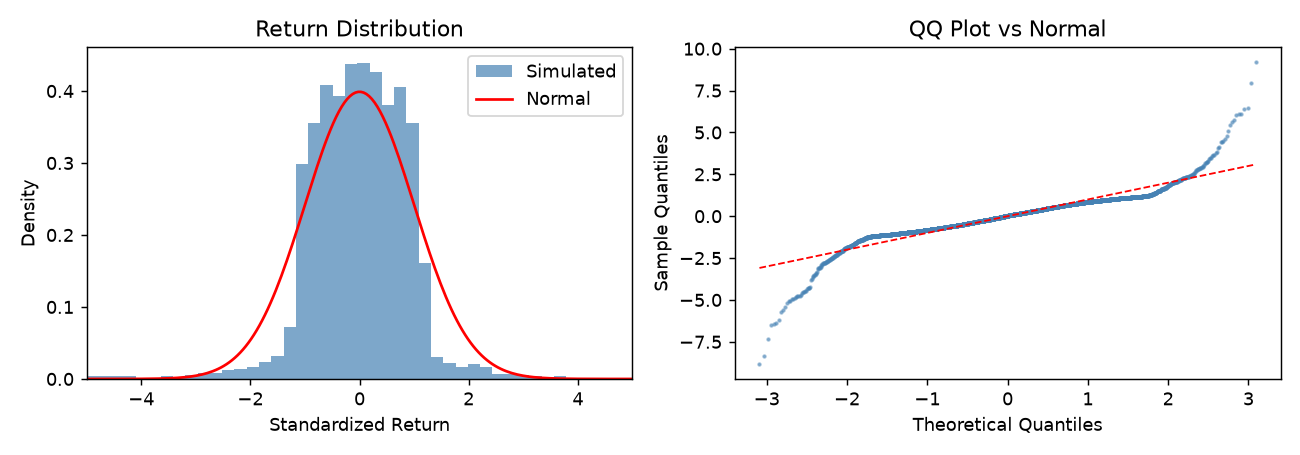
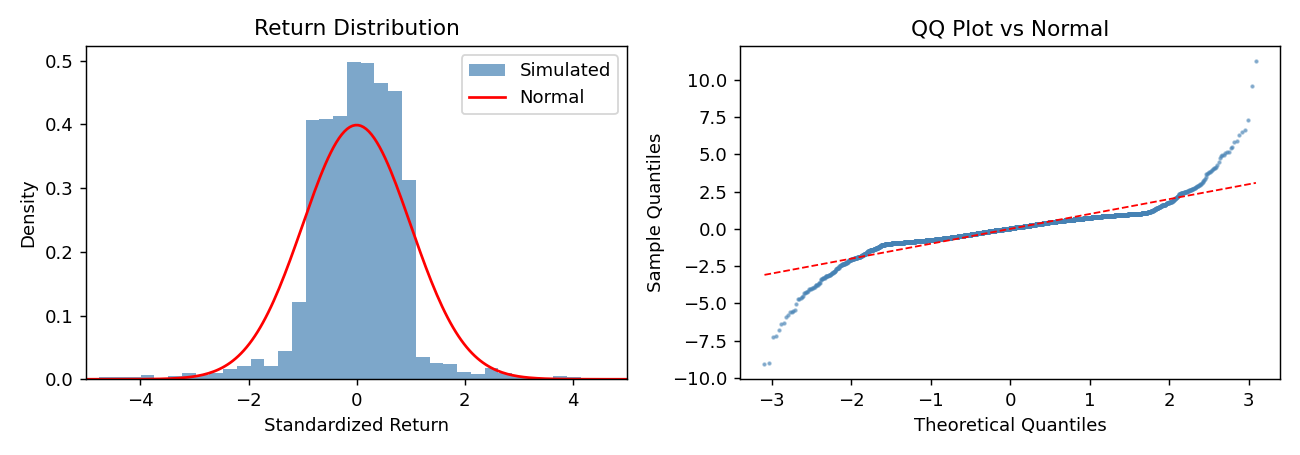
docs: re-measure stylized facts after the model fixes and update README
Regenerated docs/img and the 30-seed table with scripts/make_figures.py, which
now also prints the 30-seed table. README numbers are the new measurements;
Limitations list only what remains.

diff --git a/scripts/make_figures.py b/scripts/make_figures.py
@@ -1,6 +1,8 @@
 """Regenerate README figures and print the stylized-fact numbers.
 
-Usage: python scripts/make_figures.py  (seed 42, default parameters)
+Usage: python scripts/make_figures.py  (seed 42 figures and statistics,
+then the 30-seed table over seeds 1-30; default parameters throughout).
+All statistics use all per-step log returns, zeros included.
 """
 import sys
 from pathlib import Path
@@ -14,7 +16,8 @@ sys.path.insert(0, str(Path(__file__).resolve().parents[1]))
 
 from market_abm import DEFAULT_PARAMS, MarketModel
 from market_abm.analytics import (compute_autocorrelation,
-                                  compute_return_statistics, hill_estimator)
+                                  compute_return_statistics, hill_estimator,
+                                  validate_stylized_facts)
 from market_abm.visualization import (plot_price_and_fundamental,
                                       plot_return_distribution,
                                       plot_autocorrelation_panel)
@@ -23,10 +26,68 @@ OUT = Path(__file__).resolve().parents[1] / "docs" / "img"
 SEED = 42
 
 
+def seed_row(seed):
+    model = MarketModel({**DEFAULT_PARAMS, "seed": seed})
+    model.run(display=False)
+    data = model.output.variables.MarketModel
+    r = data["log_return"].values
+    acf = compute_autocorrelation(r, nlags=5)
+    facts = validate_stylized_facts(r)
+    trades = model.order_book.trade_history
+    return {
+        "seed": seed,
+        "kurtosis": compute_return_statistics(r)["kurtosis"],
+        "acf_r_lag1": acf["acf_returns"][1],
+        "acf_r2_lag1": acf["acf_squared_returns"][1],
+        "acf_r2_lag5": acf["acf_squared_returns"][5],
+        "hill": hill_estimator(r),
+        "band": 1.96 / np.sqrt(len(r)),
+        "zero_returns": int((r == 0).sum()),
+        "mean_abs_mispricing": float(np.mean(
+            np.abs(data["price"] - data["fundamental"]))),
+        "n_trades": len(trades),
+        "self_trades": sum(t.buyer_id == t.seller_id for t in trades),
+        "unsettled": model.n_unsettled,
+        "two_sided_frac": float(np.mean(
+            [s is not None for s in model.order_book.spread_history])),
+        "fat_tails": facts["fat_tails"]["passed"],
+        "vol_clustering": facts["volatility_clustering"]["passed"],
+        "no_autocorr": facts["no_return_autocorrelation"]["passed"],
+        "tail_index": facts["tail_index"]["passed"],
+        "failing_lags": facts["no_return_autocorrelation"]["failing_lags"],
+    }
+
+
+def seed_table(seeds=range(1, 31)):
+    import pandas as pd
+    df = pd.DataFrame([seed_row(s) for s in seeds])
+    print("\n30-seed table (seeds %d-%d): mean, min to max" % (
+        min(seeds), max(seeds)))
+    for col in ["kurtosis", "acf_r_lag1", "acf_r2_lag1", "acf_r2_lag5",
+                "hill", "zero_returns", "n_trades", "two_sided_frac",
+                "mean_abs_mispricing"]:
+        print(f"{col:>15s}: mean {df[col].mean():.4f}, "
+              f"min {df[col].min():.4f}, max {df[col].max():.4f}")
+    print("kurtosis > 0 in", int((df["kurtosis"] > 0).sum()), "seeds")
+    print("ACF(r^2) lag1 > 0 in", int((df.acf_r2_lag1 > 0).sum()), "seeds;",
+          "above band in", int((df.acf_r2_lag1 > df.band).sum()))
+    print("ACF(r) lag1 < -band in", int((df.acf_r_lag1 < -df.band).sum()),
+          "seeds; |lag1| within band in",
+          int((df.acf_r_lag1.abs() <= df.band).sum()))
+    print("self-trades:", int(df.self_trades.sum()),
+          "unsettled fills:", int(df.unsettled.sum()))
+    for k in ["fat_tails", "vol_clustering", "no_autocorr", "tail_index"]:
+        print(f"check {k}: passes in {int(df[k].sum())} of {len(df)} seeds")
+    from collections import Counter
+    print("failing lags (count of seeds):",
+          dict(sorted(Counter(l for f in df.failing_lags for l in f).items())))
+    return df
+
+
 def main():
     OUT.mkdir(parents=True, exist_ok=True)
     model = MarketModel({**DEFAULT_PARAMS, "seed": SEED})
-    model.run()
+    model.run(display=False)
     data = model.output.variables.MarketModel
     returns = data["log_return"].values
 
@@ -53,6 +114,15 @@ def main():
     print("ACF(|r|) lags1-5", acf["acf_abs_returns"][1:6])
     print("95% band", 1.96 / np.sqrt(len(returns)))
     print("Hill (top 5%)", hill_estimator(returns))
+    print("zero returns", int((returns == 0).sum()), "of", len(returns))
+    trades = model.order_book.trade_history
+    print("trades", len(trades), "self-trades",
+          sum(t.buyer_id == t.seller_id for t in trades))
+    print("two-sided book at end of step:", float(np.mean(
+        [x is not None for x in model.order_book.spread_history])))
+    print("mean |price - fundamental|",
+          float(np.mean(np.abs(data["price"] - data["fundamental"]))))
+    seed_table()
 
 
 if __name__ == "__main__":

diff --git a/README.md b/README.md
@@ -7,7 +7,7 @@ A heterogeneous agent-based model of a financial market with a limit order book,
 
 ## TL;DR
 
-Real prices show fat-tailed returns and clustered volatility, and simple models with one kind of trader usually do not. This repo simulates 100 noise, fundamental and trend-following traders who trade one asset through a continuous double auction, so the price comes out of order matching rather than being assumed. With the default parameters the simulated returns are strongly fat-tailed (excess kurtosis about 11 on seed 42, 12.6 on average over 30 seeds) and show weak volatility clustering, but they also show a negative lag-1 autocorrelation, so not every stylized fact is reproduced (see Results and Limitations).
+Real prices show fat-tailed returns and clustered volatility, and simple models with one kind of trader usually do not. This repo simulates 100 noise, fundamental and trend-following traders who trade one asset through a continuous double auction, so the price comes out of order matching rather than being assumed. With the default parameters the simulated returns are strongly fat-tailed (excess kurtosis 15.5 on seed 42, 14.9 on average over 30 seeds) and show weak, irregular volatility clustering, but they also show a negative lag-1 autocorrelation in every seed, so not every stylized fact is reproduced (see Results and Limitations).
 
 ![Price vs fundamental value, seed 42](docs/img/price_vs_fundamental.png)
 
@@ -17,18 +17,20 @@ Default parameters, 5,000 steps (5,001 observations, because step 0 is recorded)
 
 | Statistic | Seed 42 | 30 seeds (1-30): mean, min to max |
 |---|---|---|
-| Excess kurtosis of per-step log returns | 10.9 | 12.6, 8.6 to 18.8 |
-| ACF of returns, lag 1 | -0.092 | -0.071, -0.096 to -0.043 |
-| ACF of squared returns, lag 1 | 0.172 | 0.068, 0.024 to 0.178 |
-| Hill tail index (top 5% of abs returns) | 2.09 | 2.08, 1.80 to 2.37 |
+| Excess kurtosis of per-step log returns | 15.5 | 14.9, 7.2 to 48.4 |
+| ACF of returns, lag 1 | -0.038 | -0.067, -0.099 to -0.038 |
+| ACF of squared returns, lag 1 | 0.022 | 0.080, 0.0005 to 0.258 |
+| Hill tail index (top 5% of abs returns) | 2.13 | 2.03, 1.78 to 2.37 |
+
+All statistics use all 5,001 per-step returns, including the zero returns from steps without a trade (29 on seed 42; 18 to 33 across the 30 seeds). `run_experiment` and the dashboard use the same series.
 
 What this shows:
 
-- Fat tails: yes. Excess kurtosis is positive and large in all 30 seeds. The QQ plot below shows the excess comes from the tails; the centre of the distribution is flatter than normal.
-- Volatility clustering: present but short-lived. ACF of squared returns is positive in all 30 seeds, decaying from 0.17 at lag 1 to 0.01 at lag 5 for seed 42.
-- No return autocorrelation: not reproduced. Lag-1 ACF is negative and outside the 95% band (about 0.028) in all 30 seeds, which is likely a bounce between resting bid and ask prices (not tested; the book is two-sided at the end of only 23.5% of steps). The built-in `no_return_autocorrelation` check passes anyway because it tests the mean of |ACF| over lags 1-5 against 3 times the band, a loose criterion.
-- Hill index around 2 is at the low end of the 2 to 6 range the code treats as plausible, using a 5% tail on only 5,001 observations; treat it as indicative.
-- The price drifts well away from the fundamental in the last 1,500 steps of seed 42 (top figure); the fundamentalist agents correct it only slowly.
+- Fat tails: yes. Excess kurtosis is positive and large in all 30 seeds (the built-in check passes in 30 of 30). The QQ plot below shows the excess comes from the tails; the centre of the distribution is flatter than normal. Three seeds exceed 20 (21.9, 32.8 and 48.4), which pulls the mean up; the other 27 are between 7.2 and 19.5.
+- Volatility clustering: weak and irregular, not a clean decay. ACF of squared returns is positive at lag 1 in all 30 seeds but above the 95% band (about 0.028) in 24. The check (lag-1 ACF of squared returns above the band and lower at lag 5) passes in 20 of 30 seeds. Seed 42 fails it: its lag-1 value is 0.022 (inside the band), then 0.125, 0.108, 0.029, 0.043 at lags 2 to 5, while ACF of absolute returns is above the band at all of lags 1 to 5 (0.049, 0.076, 0.086, 0.032, 0.041).
+- No return autocorrelation: not reproduced. The per-lag check (every lag 1 to 5 inside the 95% band) passes in 0 of 30 seeds. Lag-1 ACF is negative and outside the band in all 30 seeds; lags 1 and 2 fail in all 30, lag 3 in 26, lag 4 in 17, lag 5 in 15. A bounce between resting bid and ask prices is a plausible cause (not tested; the book is two-sided at the end of only 23.8% of steps on seed 42).
+- Hill index around 2 is at the low end of the 2 to 6 range the code treats as plausible (the check passes in 17 of 30 seeds), using a 5% tail on only 5,001 observations; treat it as indicative.
+- The price tracks the fundamental closely in this version: mean absolute gap between price and fundamental is 1.88 on seed 42 (30 seeds: mean 2.82, 1.73 to 24.1; one seed is far above the rest).
 
 ![Return distribution and QQ plot, seed 42](docs/img/return_distribution.png)
 
@@ -37,9 +39,9 @@ What this shows:
 Each step:
 
 1. The fundamental value follows an Ornstein-Uhlenbeck process, `F(t+1) = F(t) + kappa (mu - F(t)) + sigma eps`.
-2. Agents are shuffled and act one at a time. Each submits at most one order of size 1 (market or limit) or holds.
-3. Matching is top-of-book: a market order, or a limit order that crosses the spread, trades against the best resting order at the resting price. Other limit orders rest, sorted by price then arrival step.
-4. A trade settles immediately in cash and inventory. If either side cannot cover it (the resting order is stale), the trade is voided and does not set the price or count as volume.
+2. Agents are shuffled and act one at a time. Each submits at most one order of `order_size` units (default 1; market or limit) or holds.
+3. Matching uses price-time priority across levels. A market order, or a limit order that crosses the spread, trades against resting orders at their prices until it is filled or nothing crosses; each fill can be partial. An agent never trades with its own resting orders (they are skipped, others keep their priority). A limit remainder rests; a market remainder is dropped. A limit order whose remainder would still cross only because of the agent's own resting order is dropped rather than rested, so the book is never crossed.
+4. Each fill is limited to what both sides can cover at the trade price (cash for the buyer, inventory for the seller) and settles immediately. A resting order whose owner can no longer cover it is removed. If a fill still fails to settle, it is voided, the resting order is restored at its original priority, and it does not set the price or count as volume (a safety net; 0 voids on seeds 1-30).
 5. Resting limit orders older than `stale_order_age` steps are cancelled.
 
 | Agent | Rule |
@@ -48,20 +50,20 @@ Each step:
 | Fundamental | Trades toward the fundamental with probability `min(abs(mispricing) * fundamental_sensitivity, 1)`; mostly limit orders priced between price and fundamental. |
 | Trend | Acts when the last return exceeds `trend_threshold`, with probability scaled by `trend_sensitivity`; mostly market orders in the direction of the move. |
 
-Agents start with 10,000 cash and 10 units, and cannot buy without cash or sell without inventory. The price is the last trade price.
+Agents start with 10,000 cash and 10 units, and cannot buy without cash or sell without inventory. The price is the last trade price. Volume is counted in units traded.
 
 ```
 market_abm/
   agents.py          noise, fundamental, trend-following agents
-  order_book.py      limit order book, price-time priority
+  order_book.py      limit order book: price-time priority, partial fills, self-trade prevention
   fundamental.py     Ornstein-Uhlenbeck fundamental value
   model.py           AgentPy model wiring agents + book
   analytics.py       return statistics, stylized-facts checks, multi-seed runs
   visualization.py   Matplotlib charts
   config.py          default parameters
 app.py               Streamlit dashboard (simulation + guide tabs)
-notebooks/           single run, parameter sweep, stylized facts, sensitivity, perturbation
-scripts/make_figures.py   regenerates docs/img and prints the table above
+notebooks/           single run, parameter sweep, stylized facts, sensitivity, perturbation (no stored outputs)
+scripts/make_figures.py   regenerates docs/img and prints the table above (about 30 s)
 tests/               pytest suite
 ```
 
@@ -72,7 +74,7 @@ Stack: Python 3.12, AgentPy, NumPy, pandas, SciPy, statsmodels, Matplotlib, Stre
 ```bash
 pip install -r requirements.txt
 streamlit run app.py          # dashboard
-pytest tests/ -q              # tests
+pytest tests/ -q              # tests (95 at the time of writing)
 python scripts/make_figures.py
 ```
 
@@ -96,24 +98,26 @@ Defaults from `market_abm/config.py`:
 | `fundamental_sensitivity` | Fundamental trader reaction to mispricing | 2.0 |
 | `trend_threshold` | Minimum fractional return for a trend signal | 0.005 |
 | `trend_sensitivity` | Trend trader reaction to return size | 5.0 |
+| `order_size` | Units per order submitted by every agent | 1 |
 | `stale_order_age` | Steps before a resting order is cancelled | 10 |
 
 ## Reproducibility
 
 - One seed (`seed`, default 42) drives a single NumPy `Generator` used for the fundamental, agent types, arrival order and all agent decisions. The same seed and parameters give identical price paths (covered by `test_same_seed_same_prices`).
-- Results above were produced with AgentPy 0.1.5, NumPy 2.5.3, pandas 3.0.6, SciPy 1.18.1 and statsmodels 0.15.0 on Python 3.12. `requirements.txt` only gives lower bounds, so other versions may differ.
+- Results above were produced with AgentPy 0.1.5, NumPy 2.4.4, pandas 3.0.3, SciPy 1.17.0 and statsmodels 0.14.0 on Python 3.12.2. `requirements.txt` only gives lower bounds, so other versions may differ.
 - The 30-seed numbers use seeds 1 to 30 with default parameters.
+- Defaults changed in the matching fixes, so seed-42 paths from earlier versions of this repo are not reproduced. With `order_size = 1`, what changed: agents no longer match their own resting orders; aggressors are limited to what they can pay or deliver at the actual trade price instead of the last price; a resting order whose owner can no longer cover it is removed instead of consuming the aggressor's order for the step; a limit order that would cross only the agent's own resting order is dropped instead of rested. Earlier numbers (seed 42 / 30-seed mean) were: kurtosis 10.9 / 12.6, lag-1 ACF of returns -0.092 / -0.071, lag-1 ACF of squared returns 0.172 / 0.068, Hill 2.09 / 2.08, self-trades 0.65% of trades.
 
 ## Limitations
 
-- One asset, one unit per order, top-of-book matching only. There are no partial fills or multi-level sweeps, and the `quantity` field of an order is ignored.
-- Agents can trade with their own resting orders (0.65% of trades on seed 42), which counts as volume without changing wealth.
+- One asset. Orders carry a quantity, sweep several price levels and fill partially, but every agent submits the same fixed `order_size` (default 1), so no partial fill can occur at default settings. Partial fills, multi-level sweeps and capacity limits are covered by tests with larger sizes, not by the headline results.
+- Resting limit orders do not reserve cash or inventory. An owner who has spent the cash by the time the order is hit has the order removed rather than filled.
+- A limit order that would cross only the agent's own resting order is dropped instead of rested. This keeps the book uncrossed but is a modelling choice, not market practice (venues usually cancel or reduce one of the two orders).
 - Returns are lumpy: the histogram shows a flat-topped centre with a few large jumps, so kurtosis is driven by the tails rather than a peaked centre.
-- `run_experiment` and the dashboard drop zero returns (0.4% of steps on seed 42, 20 of 5,001) before plotting and computing statistics; the README table and figures use all returns. The effect is small (kurtosis 10.84 vs 10.90 on seed 42).
-- The stylized-facts checks in `analytics.validate_stylized_facts` are loose: volatility clustering and no-autocorrelation both use the mean of |ACF| over lags 1 to 5 against the confidence band (3 times the band for the latter), so the no-autocorrelation check passes despite a clearly negative lag-1 ACF.
-- A voided trade also consumes the aggressor's order for that step; it does not retry against the next resting order (a modelling choice). The resting order is not restored either. A latent flaw: if the aggressor were the party that failed (aggressors check cash against the last price, not the trade price), the void would still not restore the resting order. No seed tried reached this case.
+- The stylized-fact checks are strict or approximate in places. The per-lag return check tests five lags at 5% each, so even white noise fails at least one lag in about 23% of series (tested). The confidence band for squared returns is the same `1.96/sqrt(n)` band, which is approximate for a non-Gaussian series.
 - No calibration to real market data; the "plausible range" checks are rules of thumb, not tests against data.
-- Tests cover the order book, agents, fundamental process, analytics and a model smoke/invariant run; they do not test the stylized-fact outputs statistically.
+- Tests check the checks on synthetic series (white noise, AR(1), ARCH) and the model's conservation and matching rules; they do not assert the stylized-fact outputs of the model itself.
+- Notebook 04 needs SALib; with SALib 1.5.1 and pandas 3 the parameter names must be a NumPy array (done in the notebook). The notebooks were re-run end to end on the current model after the changes, but their outputs are not stored.
 
 ## Credits and license
 
